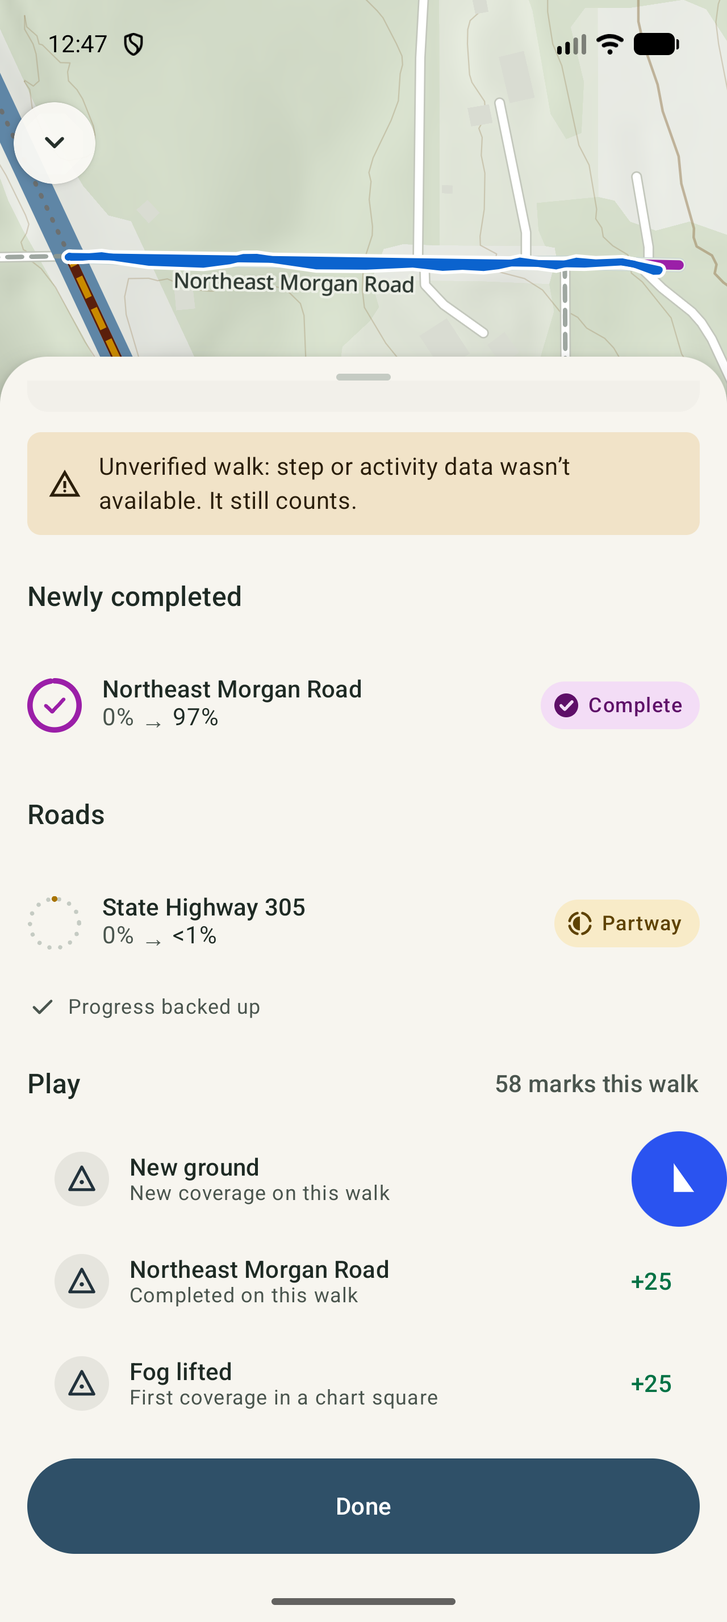
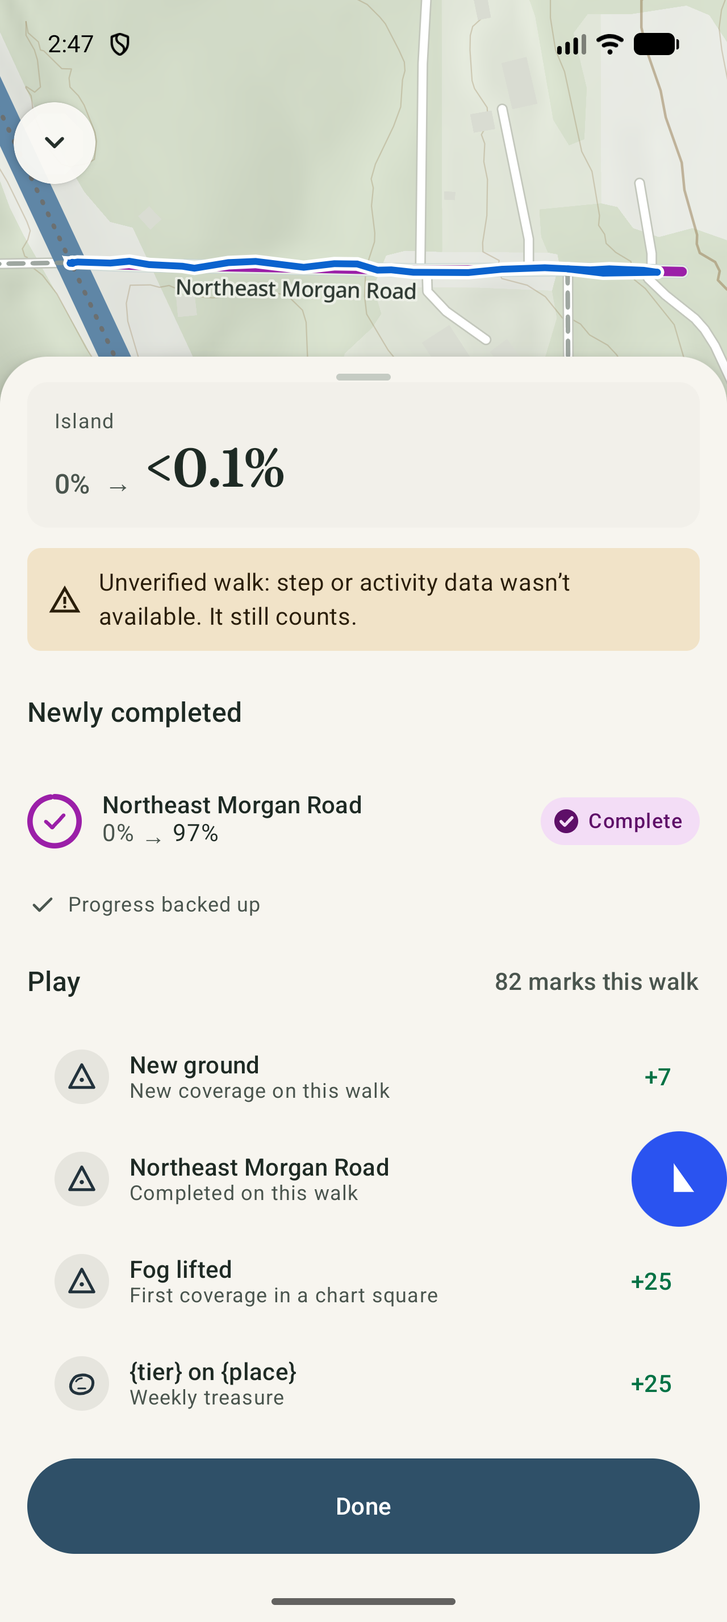
play: AC 8 e2e run 2 evidence (HEAD 9e954f9) — all claim steps pass on Android and iOS; findings F11/F12 new

diff --git a/docs/play/screens/README.md b/docs/play/screens/README.md
@@ -1,22 +1,33 @@
 # Play — AC 8 e2e walkthrough screenshots (2026-10-21)
 
-Run of [`../plan.md` § 3](../plan.md#3-ac-8-e2e-script-opt-in--treasure--kraken--riddle--challenge--logbook) on branch
-`gamification/v1`. **Result: the walkthrough does not pass.** Opt-in, sheets, the armchair riddle solve, walk-derived
-marks, sync and the Logbook/server totals work, but **no content item can be claimed under the debug Play clock**
-(finding F1), so the treasure, kraken and riddle steps (§ 3.2–3.4) are blocked on both platforms, and iOS crashes when
-Play turns on (F2). Android command sequence as a script: [`../../../scripts/play-e2e.sh`](../../../scripts/play-e2e.sh).
+Runs of [`../plan.md` § 3](../plan.md#3-ac-8-e2e-script-opt-in--treasure--kraken--riddle--challenge--logbook) on branch
+`gamification/v1`. Android command sequence as a script: [`../../../scripts/play-e2e.sh`](../../../scripts/play-e2e.sh).
+
+**Result, e2e run 2 (HEAD `9e954f9`, 2026-10-21 02:36–03:32 PDT): the claim steps pass.** With the run-1 blockers fixed,
+every content item claims under the debug Play clock on a fresh local D1: Android (roads) claimed the weekly treasure
+(+25), the Manitou kraken stretch (band 80, +70, "You sent it back") and the armchair-solved Frog Rock riddle (+40, plus
+the Frog Rock lore +15 and the ladybug egg +20 on the same walk); iOS (trails) turned Play on without crashing and claimed
+its weekly treasure (+25). Logbook totals equal D1 `play_totals` on both platforms (453 roads, 155 trails), and walks are
+now filed under Thu, Oct 29. Open: the treasure line's title is the raw template `{tier} on {place}` (F11, both
+platforms), the iOS record chips wrap one letter per line (F12), and `ch-krakenweek` shows "0 of 2" with no band line,
+which is the server's design with one walker (F9, plan wording). Steps not re-run in run 2: the pure-* baseline,
+Play off (e2e-18), the iOS kraken and riddle walks, Me (e2e-17); their run-1 screenshots stay.
+
+Run 1 (2026-10-21 00:27–01:55, tree ≈ `5929e68`/`ee30cfb` + uncommitted work) did not pass: no item could be claimed
+under the Play clock (F1) and iOS crashed on Start playing (F2). Its findings are below with their run-2 status.
 
 ## Builds and setup
 
-| | |
-|---|---|
-| Date | 2026-10-21, 00:27–01:55 PDT (real clock); Play clock Thu 2026-10-29 14:00 island time |
-| Android | emulator-5554, API 37, `com.bainbridgetrails.roads.dev`, `assembleRoadsDebug` built 00:27 from `5929e68` + the working tree of that moment (uncommitted L2 work present) |
-| iOS | iPhone 17 Pro simulator (`DBA472DD-…`), `com.bainbridgetrails.app` Debug, `linkDebugFrameworkIosSimulatorArm64` + `xcodebuild` at 00:51 (tree ≈ `ee30cfb` + uncommitted work) |
-| HEAD at write-up | `a2edb45` (the F1 code path is unchanged there: `PlaySensing.kt:94`, `ClaimEvaluator.kt:257`) |
-| Backend | `backend/` `npm install`, `cp .dev.vars.example .dev.vars`, `DEV_CLOCK_OFFSET_MS=739793320` appended (node one-liner of § 3), `npm run dev` (fresh local D1; the previous `.wrangler/state` was moved aside, not deleted) |
+| | run 2 | run 1 |
+|---|---|---|
+| Date (real clock) | 2026-10-21, 02:36–03:32 PDT | 2026-10-21, 00:27–01:55 PDT |
+| Play clock | Thu 2026-10-29 14:00 island time, tide low | same |
+| Android | emulator-5554, API 37, `com.bainbridgetrails.roads.dev`, old `.dev` uninstalled, `:androidApp:installRoadsDebug` at HEAD `9e954f9` (clean tree) | `assembleRoadsDebug` from `5929e68` + uncommitted work |
+| iOS | iPhone 17 Pro (`DBA472DD-365C-42E1-9C3E-DCAFFCF47882`), app uninstalled first, `linkDebugFrameworkIosSimulatorArm64` + `xcodebuild` at `9e954f9`, `BainbridgeTrails.app` | Debug build, tree ≈ `ee30cfb` + uncommitted work |
+| Backend | run 1's `backend/.dev.vars` with `DEV_CLOCK_OFFSET_MS` replaced by `732248581` (2026-10-29T21:00Z − now); previous `.wrangler/state` moved aside (not deleted); fresh local D1, migrations 0001–0005 applied by `npm run dev` | `.dev.vars.example` + `DEV_CLOCK_OFFSET_MS=739793320`, fresh local D1 |
+| HEAD during the run | `980a48e` landed mid-run (docs only: `README.md`, `docs/play/README.md`); the binaries are `9e954f9` code | `a2edb45` at write-up |
 
-Commands, in order (Android; `scripts/play-e2e.sh` is the reproducible form):
+Commands, in order (Android; `scripts/play-e2e.sh` is the reproducible form; run 2 followed the same sequence):
 
 ```sh
 cd backend && npm install && cp .dev.vars.example .dev.vars
@@ -31,19 +42,24 @@ adb shell am start -n …/com.bainbridgetrails.app.MainActivity --es playClock 2
 #   shared_prefs/com.sloopworks.debugdrawer.xml  <string name="backend_override">local</string>  (run-as), relaunch
 # allow ACCESS_LOCAL_NETWORK; Me › Sign in › Dev sign-in; Settings › Play on › Start playing
 DIST=data/roads/dist scripts/emu-route.sh "$E2E_TREASURE_ROAD" 2            # walk 1 (road-northeast-morgan-road-2, 242 m)
-DIST=data/roads/dist scripts/emu-route.sh road-manitou-beach-drive-northeast 2   # walk 2 (whole road, 3580 m)
-# What's on › Riddle ★ › Pick the place on the map › Frog Rock → solved
+DIST=data/roads/dist scripts/emu-route.sh road-manitou-beach-drive-northeast 2 900   # walk 2 (run 2: first 900 s, 1170 m)
+# run 2: Map › tap the riddle pin at Frog Rock › Pick the place on the map › Frog Rock → solved (run 1: via What's on)
 DIST=data/roads/dist scripts/emu-route.sh road-northeast-spargur-loop-road 2     # walk 3 (1630 m)
 # Map › Challenges › Kraken week; Play chip › Logbook; Me; Settings › Play off › Turn off → Map
 ```
 
 iOS: `xcrun simctl launch <udid> com.bainbridgetrails.app -btDevSignIn 1 -apiBaseUrl http://localhost:8787
--btPlayClock 2026-10-29T14:00 -btPlayTide low -btScreen settings`, then (after F2) relaunches with
-`-acceptSimulatedLocations 1` (F4) and `-btScreen trail:<id>|whats-on|logbook|challenges|me`;
+-btPlayClock 2026-10-29T14:00 -btPlayTide low -acceptSimulatedLocations 1 -btScreen settings` (run 2: no crash; run 1
+relaunched after F2), then `-btScreen trail:<id>|whats-on|logbook|challenges|me`;
 `SIM=<udid> scripts/sim-route.sh trail-farm-trail-north` ($E2E_TREASURE_TRAIL), `trail-fairy-dell-trail`,
 `trail-grand-forest-west`. Two simulators were booted, so `booted` is ambiguous: always pass the UDID.
 
+D1 checks: `cd backend && npx wrangler d1 execute bainbridge-trails --local --command "select occ, marks from play_claims"`
+(and `play_totals`, `play_attack_stretches`, `play_progress`).
+
 ## Screenshots
+
+Rows marked **(run 2)** were re-taken at `9e954f9`; the rest are run 1.
 
 | file | what it shows |
 |---|---|
@@ -53,95 +69,112 @@ iOS: `xcrun simctl launch <udid> com.bainbridgetrails.app -btDevSignIn 1 -apiBas
 | `pure-settings-android.png` / `-ios.png` | Settings with the Play switch off |
 | `e2e-01-settings-play-android.png` / `-ios.png` | Settings › Play row (signed in, before the switch) |
 | `e2e-02-intro-android.png` / `-ios.png` | "Play on the island" intro sheet |
-| `e2e-03-wake-android.png` | Start playing pressed: button spinner, map fading in behind (the wake itself was not caught) |
-| `e2e-03-wake-ios.png` | first wake frame, ~0.3 s before the crash (F2) |
-| `e2e-04-map-play-android.png` | Map with Play: `0 · Walk-on` + challenge chips, pins, kraken label, start-balance snackbar |
-| `e2e-04-map-play-ios.png` | Map with Play after relaunch (130 · Walk-on), pins, fog squares, "The kraken is at the west shore" |
-| `e2e-05-treasure-sheet-android.png` | Sea glass · Northeast Morgan Road · 25 marks · "Washes away Sunday night" |
-| `e2e-05-treasure-sheet-ios.png` | Sea glass · Farm Trail North · 25 marks — still unfound after walking the trail 99 % (F1) |
-| `e2e-06-record-find-ios.png` | recording on Farm Trail North (0 → 99 %), **no find moment** (F1). No Android counterpart: no find happened |
-| `e2e-07-results-treasure-android.png` | walk 1 results: 58 marks (New ground +8, Road complete +25, Fog lifted +25), **no treasure line** |
-| `e2e-07-results-treasure-ios.png` | iOS walk results: 130 marks (+5, Farm Trail North +100, Fog +25), no treasure line |
-| `e2e-08-kraken-sheet-android.png` | "The kraken is ashore · Until Sunday, 8 pm", 60–80 marks a stretch, Manitou + Gertie Johnson stretches |
-| `e2e-08-kraken-sheet-ios.png` | same for trails: "inking the west shore", Fairy Dell + Schel Chelb |
-| `e2e-09-record-kraken-android.png` | walk 2 mid-way: 25:38, 1.2 mi, Manitou Beach Dr 0 → 69 % |
-| `e2e-09-record-kraken-ios.png` | Fairy Dell replay mid-way (first attempt: 0.0 mi, every fix dropped as mock, F4) |
-| `e2e-10-results-kraken-android.png` | walk 2 results: 209 marks (New ground +94, Road complete +25, Fog +75, Walking day +15), Manitou 0 → 98 %, **no kraken line** |
-| `e2e-10-results-kraken-ios.png` | Fairy Dell 0 → 85 %: 196 marks, rank Dock Walker, **no kraken line** |
-| `e2e-11-riddle-sheet-android.png` / `-ios.png` | riddle sheet (riddle-frog ★ / riddle-bond ★★) — chip reads **"0 marks"** (F7) |
-| `e2e-12-riddle-solved-android.png` / `-ios.png` | "Solved. Walk there to claim it." after the armchair pick (Frog Rock on the map / Grand Forest West from the list) |
-| `e2e-13-results-riddle-ios.png` | Grand Forest West walk: 0.0 mi recorded (replay never moved the dot; harness, F8) — no claim |
-| `e2e-14-challenges-android.png` / `-ios.png` | Challenges: Weekend sweep (just you), Kraken week (whole island) |
-| `e2e-15-challenge-krakenweek-android.png` / `-ios.png` | Kraken week sheet: "0 of 2 stretches sent back by islanders", 75 marks, no names, no countdown; no band line (nothing claimed) |
-| `e2e-16-logbook-android.png` | Logbook after walk 3: 382 marks · 0 this week · Dock Walker · 368 to Beachcomber; walks filed under **Wed, Oct 21**, start balance under Thu, Oct 29 (F1) |
-| `e2e-16-logbook-ios.png` | Logbook 326 marks; "Riddle · Riddle solved · Stamped" (no number) under Thu Oct 29; walks under Wed Oct 21 |
-| `e2e-17-me-playcard-android.png` / `-ios.png` | Me › Play card: 267 / 326 marks, Dock Walker, "483 / 424 to Beachcomber" |
-| `e2e-18-play-off-map-ios.png` | Map after Turn off Play: pure again |
-| `e2e-13-results-riddle-android.png` | walk 3 (Spargur Loop, 1630 m) results: 115 marks (New ground +40, Road complete +25, Fog +50), **no riddle +40, no Frog Rock lore** (F1) |
-| `e2e-18-play-off-map-android.png` | Map after Turn off Play: no chips/pins/fog; walked roads violet as in the pure build; logcat `fx: host stop`; wrangler only `GET /v1/leaderboard` afterwards |
+| `e2e-03-wake-android.png` | **(run 2)** the wake, +3.8 s after Start: "The island is awake", subtitle, island outline and pins (burst of 8 frames at ~0.6 s) |
+| `e2e-03-wake-ios.png` | **(run 2)** the wake mid-way: "The island is awake" over the outline; no crash (F2 fixed) |
+| `e2e-04-map-play-android.png` | **(run 2)** Map with Play zoomed to Murden Cove: `0 · Walk-on` + challenge chips, the inked Manitou stretch, kraken ripple ring and "The kraken is at Manitou" on the water just off the stretch (F6 fixed) |
+| `e2e-04-map-play-ios.png` | **(run 2)** Map with Play after the wake: `0 · Walk-on`, pins, fog squares, "The kraken is at the west shore" (zoomed in, the ring sits on the shoreline at Lynwood Center) |
+| `e2e-05-treasure-sheet-android.png` | **(run 2)** Sea glass · Northeast Morgan Road · 25 marks · "Washes away Sunday night", opened by tapping the pin |
+| `e2e-05-treasure-sheet-ios.png` | Sea glass · Farm Trail North · 25 marks — run 1, still unfound after walking the trail 99 % (F1) |
+| `e2e-06-record-find-android.png` | **(run 2)** recording Morgan Road 0 → 97 %, chip "1 find" (the find moment fired at the start point, before the first frame) |
+| `e2e-06-record-find-ios.png` | **(run 2)** recording Farm Trail North 0 → 58 %, treasure pin on the trail, chip "1 find" wrapped one letter per line (F12) |
+| `e2e-07-results-treasure-android.png` | **(run 2)** walk 1 results: 82 marks (New ground +7, Road complete +25, Fog lifted +25, **treasure +25** titled `{tier} on {place}` (F11)) |
+| `e2e-07-results-treasure-ios.png` | **(run 2)** Farm Trail North results: 155 marks (+5, +100, Fog +25, **treasure +25**, same F11 title) |
+| `e2e-08-kraken-sheet-android.png` | **(run 2)** "The kraken is ashore · Until Sunday, 8 pm", 60–80 marks a stretch, Manitou + Gertie Johnson stretches (before walk 2) |
+| `e2e-08-kraken-sheet-ios.png` | same for trails: "inking the west shore", Fairy Dell + Schel Chelb (run 1) |
+| `e2e-09-record-kraken-android.png` | **(run 2)** walk 2 at 4:47, 0.2 mi, Manitou Beach Dr 0 → 13 % |
+| `e2e-09-record-kraken-ios.png` | Fairy Dell replay mid-way (run 1; first attempt: 0.0 mi, every fix dropped as mock, F4) |
+| `e2e-10-results-kraken-android.png` | **(run 2)** walk 2 results: 181 marks (New ground +46, Fog +50, Walking day +15, **Kraken sent back +70**), Manitou 0 → 52 %, new rank Dock Walker |
+| `e2e-10-results-kraken-ios.png` | Fairy Dell 0 → 85 %: 196 marks, no kraken line (run 1, F1) |
+| `e2e-11-riddle-sheet-android.png` | **(run 2)** riddle-frog sheet opened by tapping its pin on the map (F5 fixed): Riddle ★, **40 marks** (F7 fixed), Pick the place on the map / Choose from a list |
+| `e2e-11-riddle-sheet-ios.png` | riddle-bond ★★ sheet, chip "0 marks" (run 1, F7) |
+| `e2e-12-riddle-solved-android.png` | **(run 2)** "Solved. Walk there to claim it." after picking Frog Rock on the map |
+| `e2e-12-riddle-solved-ios.png` | same after Grand Forest West from the list (run 1) |
+| `e2e-13-results-riddle-android.png` | **(run 2)** walk 3 (Spargur Loop, 1630 m) results: 190 marks (New ground +40, Road complete +25, Fog +50, Frog Rock's ladybug egg +20, **Riddle walked to +40**, Frog Rock island story +15) |
+| `e2e-13-results-riddle-ios.png` | Grand Forest West walk: 0.0 mi recorded (run 1, harness F8) — no claim |
+| `e2e-14-challenges-android.png` / `-ios.png` | Challenges: Weekend sweep (just you), Kraken week (whole island) (run 1) |
+| `e2e-15-challenge-krakenweek-android.png` | **(run 2)** Kraken week after the repel: "0 of 2 stretches sent back by islanders", 75 marks, no names, no countdown, no band line (F9) |
+| `e2e-15-challenge-krakenweek-ios.png` | Kraken week sheet, "0 of 2" (run 1) |
+| `e2e-16-logbook-android.png` | **(run 2)** Logbook after walk 3: 453 marks · 453 this week · Dock Walker · 297 to Beachcomber; every row under **Thu, Oct 29**; riddle stamp "Stamped" with no number |
+| `e2e-16-logbook-ios.png` | **(run 2)** Logbook 155 marks · 155 this week; Thu, Oct 29: treasure +25 (F11 title), Farm Trail North +100, New ground +5, Fog +25, start balance +0 |
+| `e2e-17-me-playcard-android.png` / `-ios.png` | Me › Play card: 267 / 326 marks, Dock Walker (run 1) |
+| `e2e-18-play-off-map-ios.png` | Map after Turn off Play: pure again (run 1) |
+| `e2e-18-play-off-map-android.png` | Map after Turn off Play: no chips/pins/fog; walked roads violet as in the pure build (run 1) |
 
-Not taken: `e2e-06-record-find-android` (no find happened), the § 2 `fx-*` set (unchanged from earlier commits).
+Not taken in run 2: the pure-* set, e2e-01/02/14/17/18, the iOS kraken/riddle walks (e2e-05/08–13 `-ios`).
 
-## Assertions (§ 3)
+## Assertions (§ 3), run 2 (HEAD `9e954f9`)
 
-| # | assertion | Android | iOS | evidence |
+| # | assertion | Android (roads) | iOS (trails) | evidence |
 |---|---|---|---|---|
-| 1 | pure-* and e2e-18 show no Play chrome; no `/v1/play/*` while off | PASS (visual, pure-* and e2e-18); wrangler PASS while signed in with Play off before opt-in (`POST /v1/auth/dev`, `GET /v1/coverage`, `GET /v1/me` only) and after Turn off (`GET /v1/leaderboard` only); logcat `fx: host stop`. Pure shots were on the Prod backend (drawer default) so they say nothing about wrangler | PASS: pure launches on local backend made no request at all | wrangler log |
-| 2 | walk 1: treasure `+25…`, `play.accepted` has `treasure-weekly-roads@2026-10-26#00` | **FAIL/BLOCKED** (F1): no find, no claim; `play_claims` empty | **FAIL/BLOCKED** (F1) | results shots; D1 `select count(*) from play_claims` = 0 |
-| 3 | walk 2: `kraken-roads@2026-10-29#0`, band 95, +80, "You sent it back" | **FAIL/BLOCKED** (F1): Manitou 98 % covered, no kraken line, `play_attack_stretches` empty | **FAIL/BLOCKED** (F1) | e2e-10 shots |
-| 4 | riddle claimed +40/+80; armchair solve = stamp, no number | solve PASS; claim FAIL/BLOCKED (F1): walk 3 Spargur Loop 0 → ≥ 85 %, no riddle line | solve stamp PASS (e2e-16-ios); claim BLOCKED | e2e-12, e2e-16-ios |
-| 5 | `ch-krakenweek` shared progress + `{band,count}`, no names, no countdown | PARTIAL: "0 of 2", no names, no countdown; band line absent (nothing claimed) | PARTIAL: "0 of 2" (plan expects trails "of 3", F9) | e2e-15 |
-| 6 | Logbook total = Σ rows = `GET /v1/play/me`; no time of day | PASS: after walk 2 0+15+25+94+75+25+8+25 = 267 = D1 `play_totals` roads 267; after walk 3 382 = 267+115 = D1 382 | PASS: 326 = 100+46+50+100+5+25 = D1 trails 326 | e2e-16; D1 `play_totals`; `GET /v1/play/me` (curl, dev sign-in) answers `{"weekId":"2026-10-26","total":0,…}` for a fresh user |
-| 7 | chip marks = Logbook total; rank matches ladder | PASS: chip "267 · Dock Walker"; 483 to Beachcomber (750) | PASS: "326 · Dock Walker", 424 to Beachcomber | e2e-16/17 |
+| 1 | no `/v1/play/*` while Play is off | **PASS**: signed in with Play off the app made `POST /v1/auth/dev`, `GET /v1/coverage`, `GET /v1/me`, `GET /v1/leaderboard` only; the first `/v1/play/*` (`GET /v1/play/me`) came after Start playing. Pure-* / e2e-18 not re-taken | **PASS**: `POST /v1/auth/dev`, `GET /v1/coverage` only until Start playing | wrangler request log (no bodies) |
+| 2 | walk 1: treasure `+25/40/60/150` by tier; `treasure-weekly-<goal>@2026-10-26#NN` accepted | **PASS**: results "+25" (Sea glass tier); D1 `treasure-weekly-roads@2026-10-26#00` marks 25; Logbook row not local-only. Title text wrong (F11) | **PASS**: "+25"; D1 `treasure-weekly-trails@2026-10-26#00` marks 25; same F11 title | e2e-07 both; D1 `play_claims` |
+| 3 | walk 2: `kraken-roads@2026-10-29#0` band ≥ 60 with matching marks; "You sent it back" | **PASS**: D1 `kraken-roads@2026-10-29#0` kind `ink` marks 70 = band 80 of the pack's bands (60→60, 80→70, 95→80); `play_attack_stretches` repelled_by 1; kraken sheet row "Manitou Beach Drive Northeast, You sent it back". (900 s covered the stretch to band 80, not § 3's band 95/+80) | not run | e2e-10; D1 |
+| 4 | walk 3: riddle claimed +40 (roads); armchair solve = stamp, no number | **PASS**: pin tap opened the sheet (F5), solve on the map → "Solved"; walk 3 "Riddle walked to +40"; D1 `riddle-frog@2026-10-26` marks 40; Logbook "Riddle solved · Stamped" without a number. Bonus seen: `lore-frog@2026-10-26` +15, `egg-ladybug@2026-10-26` +20 | not run | e2e-11/12/13/16 |
+| 5 | `ch-krakenweek`: shared progress + `{band, count}`, no names, no countdown | **PARTIAL (by design)**: "0 of 2 stretches sent back by islanders", no names, no countdown; no band line. Server: a stretch counts as sent back at ≥ 3 distinct walkers (`minPlayersPerStretch`), and the client shows the band only when its count is known (≥ 5); D1 `play_progress` `ch-krakenweek@2026-10-29` = 1 (band `middle`, count hidden). See F9 | not run | e2e-15; D1 `play_progress` |
+| 6 | Logbook total = Σ rows = server total; no time of day | **PASS**: 453 = 82 + 181 + 190 = D1 `play_totals` roads 453 (cov 93 + derived 175 + found 170 + week 15); rows dated, no times | **PASS**: 155 = 25 + 100 + 5 + 25 + 0 = D1 trails 155 (5 + 125 + 25) | e2e-16 both; D1 `play_totals` |
+| 7 | chip marks = Logbook total; rank matches ladder | **PASS**: chip "263 · Dock Walker" after walk 2, Play card "453 marks. Dock Walker. 297 to Beachcomber" (750) | **PASS**: chip "155 · Walk-on", Logbook "95 to Dock Walker" (250) | map / Logbook shots |
 | 8 | verify.full + verify.api green | not run here (kmp-verifier owns it) | — | — |
 
-`play.accepted` keys could not be read from the wrangler log: wrangler logs request lines only (no bodies) and the
-Worker logs nothing per upload; with no claims the accepted list would be empty anyway. Logbook rows have no time of
-day; What's on shows schedule times ("Daylight 7:17 am – 6:28 pm · Next ferry arrives 3:10 pm", "Thu 6 am – Sun 8 pm"),
-which are content times, not the walker's.
+D1 `play_claims` after run 2 (`select dataset, occ, kind, marks`):
+
+```
+roads   egg-ladybug@2026-10-26               egg       20
+roads   kraken-roads@2026-10-29#0            ink       70
+roads   lore-frog@2026-10-26                 lore      15
+roads   riddle-frog@2026-10-26               riddle    40
+roads   treasure-weekly-roads@2026-10-26#00  treasure  25
+trails  treasure-weekly-trails@2026-10-26#00 treasure  25
+```
+
+`play.accepted` keys still cannot be read from the wrangler log (request lines only); the D1 rows above are the
+accepted claims.
 
 ## Findings
 
-- **F1 (blocker, both platforms): claims use the fix's real timestamp, not the Play clock.** `Fix.toGated()`
-  (`PlaySensing.kt:94`) passes `timeMs` (system clock) and `ClaimEvaluator.Walk.add` checks activity/daylight at
-  `f.instant` (`ClaimEvaluator.kt:257`); `PlayRepository.claimWalk` builds the day plans from the walk's real start/end.
-  With the debug clock at Thu 2026-10-29 14:00 and the device at Wed 2026-10-21 ~01:00 PDT (night, before the week),
-  nothing is active at any fix: walking Morgan Road (treasure), Manitou 98 % (kraken stretch) and Farm Trail North 99 %
-  (iOS treasure) claimed nothing; `play_claims`, `play_progress`, `play_attack_stretches` stay empty; the Logbook files
-  every walk under **Wed, Oct 21** while the start balance and the riddle stamp sit under Thu, Oct 29. § 3's
-  `playClock` launch argument therefore cannot drive the e2e. Fix: shift fix times by the debug clock's offset before
-  sensing/claiming (debug only), or run the e2e at a real Thursday afternoon / with the device clock set.
-- **F2 (blocker, iOS): crash on Start playing and on launch with Play on into the island map.**
-  `Uncaught Kotlin exception: kotlin.IllegalArgumentException: Can't represent a width of 89917 and height of 89917 in
-  Constraints` from `SizeNode.measure` under `org.maplibre.compose.overlay.GeographicLayout…measure` (a map-overlay
-  composable sized in geographic units, i.e. one of the FX overlays). Reports
-  `~/Library/Logs/DiagnosticReports/BainbridgeTrails-2026-10-21-005352.ips` and `-005415.ips`. Map with Play works when
-  reached through a sheet or after the wake (zoomed in), and the non-map screens (`-btScreen logbook|challenges|me`) work.
-- **F3: debug drawer Apply & Restart did not stick** (known race): after the confirm dialog the app restarted on Prod
-  (`debug tools installed; backend https://bainbridge-trails-api.patjackson52.workers.dev`, no
-  `com.sloopworks.debugdrawer.xml`). Writing `backend_override=local` into that prefs file via `run-as` and relaunching
-  works (`backend http://10.0.2.2:8787`); then the ACCESS_LOCAL_NETWORK prompt appears as documented.
-- **F4 (plan doc): iOS § 3 launch args lack `-acceptSimulatedLocations 1`.** Without it every `simctl location` fix is
-  `isSimulatedBySoftware` and dropped as mock (`IosRecorder.kt:44`): the first Fairy Dell walk recorded 0.0 mi. Also the
-  built product is `BainbridgeTrails.app`, not `iosApp.app` as § 3's `simctl install` line says.
-- **F5: map pins lose the tap to roads/trails.** Android: the kraken label/marker ("The kraken is at Manitou", drawn
-  inland over Falk Road NE) and the Frog Rock riddle pin open "Roads on this section" / the road sheet instead; iOS: the
-  Grand Forest pins open "Trails on this section". The treasure pin at street zoom did open its sheet. Workaround used:
-  Challenges › Kraken week › Show on map, and Me › What's on › Riddle.
-- **F6: the roads kraken label sits inland** (Falk Road NE, ~1 km from the Manitou shore stretch) — screenshot
-  `e2e-04-map-play-android.png`.
-- **F7: riddle sheets show "0 marks"** (riddle-frog ★ roads, riddle-bond ★★ trails); § 3 expects +40 / +80 on claim.
-- **F8 (harness): `sim-route.sh trail-grand-forest-west` (4.3 km) never moved the simulator dot** after a
-  `location clear` + `set` + relaunch; the walk saved 0.0 mi. Fairy Dell and Farm Trail North replays in the same session
-  worked. Also `emu-route.sh` replays a whole road (Manitou 3580 m = 46 min), not the 1158 m stretch § 3 names.
-- **F9 (plan/content): trails Kraken week reads "0 of 2 stretches"**; § 3 expects "1 of 3" for trails (after one repel).
-- **F10: Android wake not observed.** `e2e-03-wake-android.png` at +1.2 s shows the intro button spinner; at +7 s the
-  map is already up with the "Your walks so far: 0 marks" snackbar.
-- Concurrency note: other agents committed `ee30cfb`, `1b99fa7`, `a2edb45` and edited `PlayRepository.kt`,
-  `Finalizer.kt`, `RecordingController.kt`, `MapTab.kt` during the run (wrangler hot-reloaded twice at ~00:46), so the two
-  apps were built from different trees; F1's code path is unchanged at `a2edb45`.
-- Operator slip: one stray `adb emu geo fix -122.5 47.6` (a 6 km jump) was sent during walk 2; the coverage/plausibility
-  pipeline absorbed it (walk 2 synced, Manitou 98 %).
+Status after run 2 in brackets.
+
+- **F1 [fixed] (blocker, both platforms): claims use the fix's real timestamp, not the Play clock.** Run 1: `Fix.toGated()`
+  (`PlaySensing.kt:94`) passed `timeMs` (system clock) and `ClaimEvaluator.Walk.add` checked activity/daylight at
+  `f.instant` (`ClaimEvaluator.kt:257`); nothing was active at any fix, `play_claims` stayed empty and the Logbook filed
+  walks under Wed, Oct 21. Run 2: treasure, kraken, riddle, lore and egg all claimed on Android and the treasure on iOS;
+  every Logbook row is under Thu, Oct 29.
+- **F2 [fixed] (blocker, iOS): crash on Start playing and on launch with Play on into the island map**
+  (`IllegalArgumentException: Can't represent a width of 89917 and height of 89917 in Constraints` under
+  `org.maplibre.compose.overlay.GeographicLayout`). Run 2: Start playing ran the wake into the map and later launches
+  into the map worked; no new `BainbridgeTrails-*.ips` in `~/Library/Logs/DiagnosticReports`.
+- **F3 [still open] debug drawer Apply & Restart did not stick** (known race in the external drawer). Run 2 used the
+  prefs-file workaround directly (`debug tools installed; backend http://10.0.2.2:8787`).
+- **F4 [fixed in plan] iOS § 3 launch args lacked `-acceptSimulatedLocations 1`; product is `BainbridgeTrails.app`.**
+  § 3 now has both; run 2 used them and the Farm Trail North replay recorded normally.
+- **F5 [fixed] map pins lost the tap to roads/trails.** Run 2: tapping the Frog Rock riddle pin on the map opened the
+  riddle sheet; the treasure pin opened its sheet.
+- **F6 [fixed] the roads kraken label sat inland** (Falk Road NE). Run 2: the ripple ring and "The kraken is at Manitou"
+  sit on the water of Murden Cove just off the inked stretch (`e2e-04-map-play-android.png`). Trails, zoomed in: the
+  ring sits on the shoreline at Lynwood Center (scratch evidence only; at island zoom the label overlaps land).
+- **F7 [fixed] riddle sheets showed "0 marks".** Run 2: riddle-frog shows "40 marks" and claimed +40.
+- **F8 [not re-tested] (harness) `sim-route.sh trail-grand-forest-west` never moved the simulator dot**; the iOS riddle
+  walk was not part of run 2. `emu-route.sh … 2 900` (plan § 3) bounds walk 2 to 1170 m: band 80 (+70), not 95.
+- **F9 [still open, plan wording] Kraken week "of N" and the band line.** The server counts a stretch as sent back only
+  when ≥ `minPlayersPerStretch` (3) distinct walkers repelled it (`backend/src/play/challenges.ts`), and the band line
+  needs a known count (≥ 5, `ChallengesLogic.kt`); a single-walker local e2e therefore shows "0 of 2" and no band line
+  even after a repel (D1 `play_attack_stretches` repelled_by 1, `play_progress` 1). § 3's "1 of 2/3 + your band" cannot
+  appear without 3 (stretch) and 5 (band) seeded walkers; trails still reads "of 2" vs § 3's "1 of 3".
+- **F10 [fixed] Android wake not observed.** Run 2 caught it with a ~0.6 s screencap burst: title at +2.6 s, subtitle and
+  island outline at +3.2–3.8 s, pins filling in at +4.4 s (`e2e-03-wake-android.png`).
+- **F11 [new] (both platforms): the treasure Logbook/results line shows the raw template `{tier} on {place}`.** The
+  walk results and Logbook rows read "{tier} on {place} · Weekly treasure · +25" (Android and iOS; the a11y text is
+  "Treasure. {tier} on {place}. Weekly treasure."). `PlayRepository.kt:394` passes `items[it]?.copy?.title` (the pack's
+  unfilled `"{tier} on {place}"`) as the Logbook title into `PlayClaims.record` (`PlayClaimQueue.kt:296`); the find
+  moment fills it (`PlayNearbyStrip.kt:71`, `PlayFormat.fill`), the claim path does not. Entries are stored as written
+  (`LogCopy` contract), so already-written rows keep the template.
+- **F12 [new] (iOS): record-screen chips wrap one letter per line.** With "GPS ok" + "Unverified" + the Play find chip,
+  the "1 find" chip renders as `1 / fi / n / d` and "Unverified" wraps to `Unverifie / d` once "Waiting for GPS" shows
+  (`e2e-06-record-find-ios.png`). Android lays out the same three chips on one line.
+- Note (run 2): the treasure find on Android fired at the very first fix (the walk started on the treasure's point), so
+  the find moment itself was not captured; the chip and results show it.
+- Concurrency note (run 1): other agents committed and edited Play sources during run 1, so its two apps were built from
+  different trees. Run 2 built both apps from the clean `9e954f9` tree; `980a48e` (docs only) landed mid-run.
+- Operator slip (run 1): one stray `adb emu geo fix -122.5 47.6` during walk 2; absorbed by the pipeline.
 
 ## Showcase captures (run 2)
 
